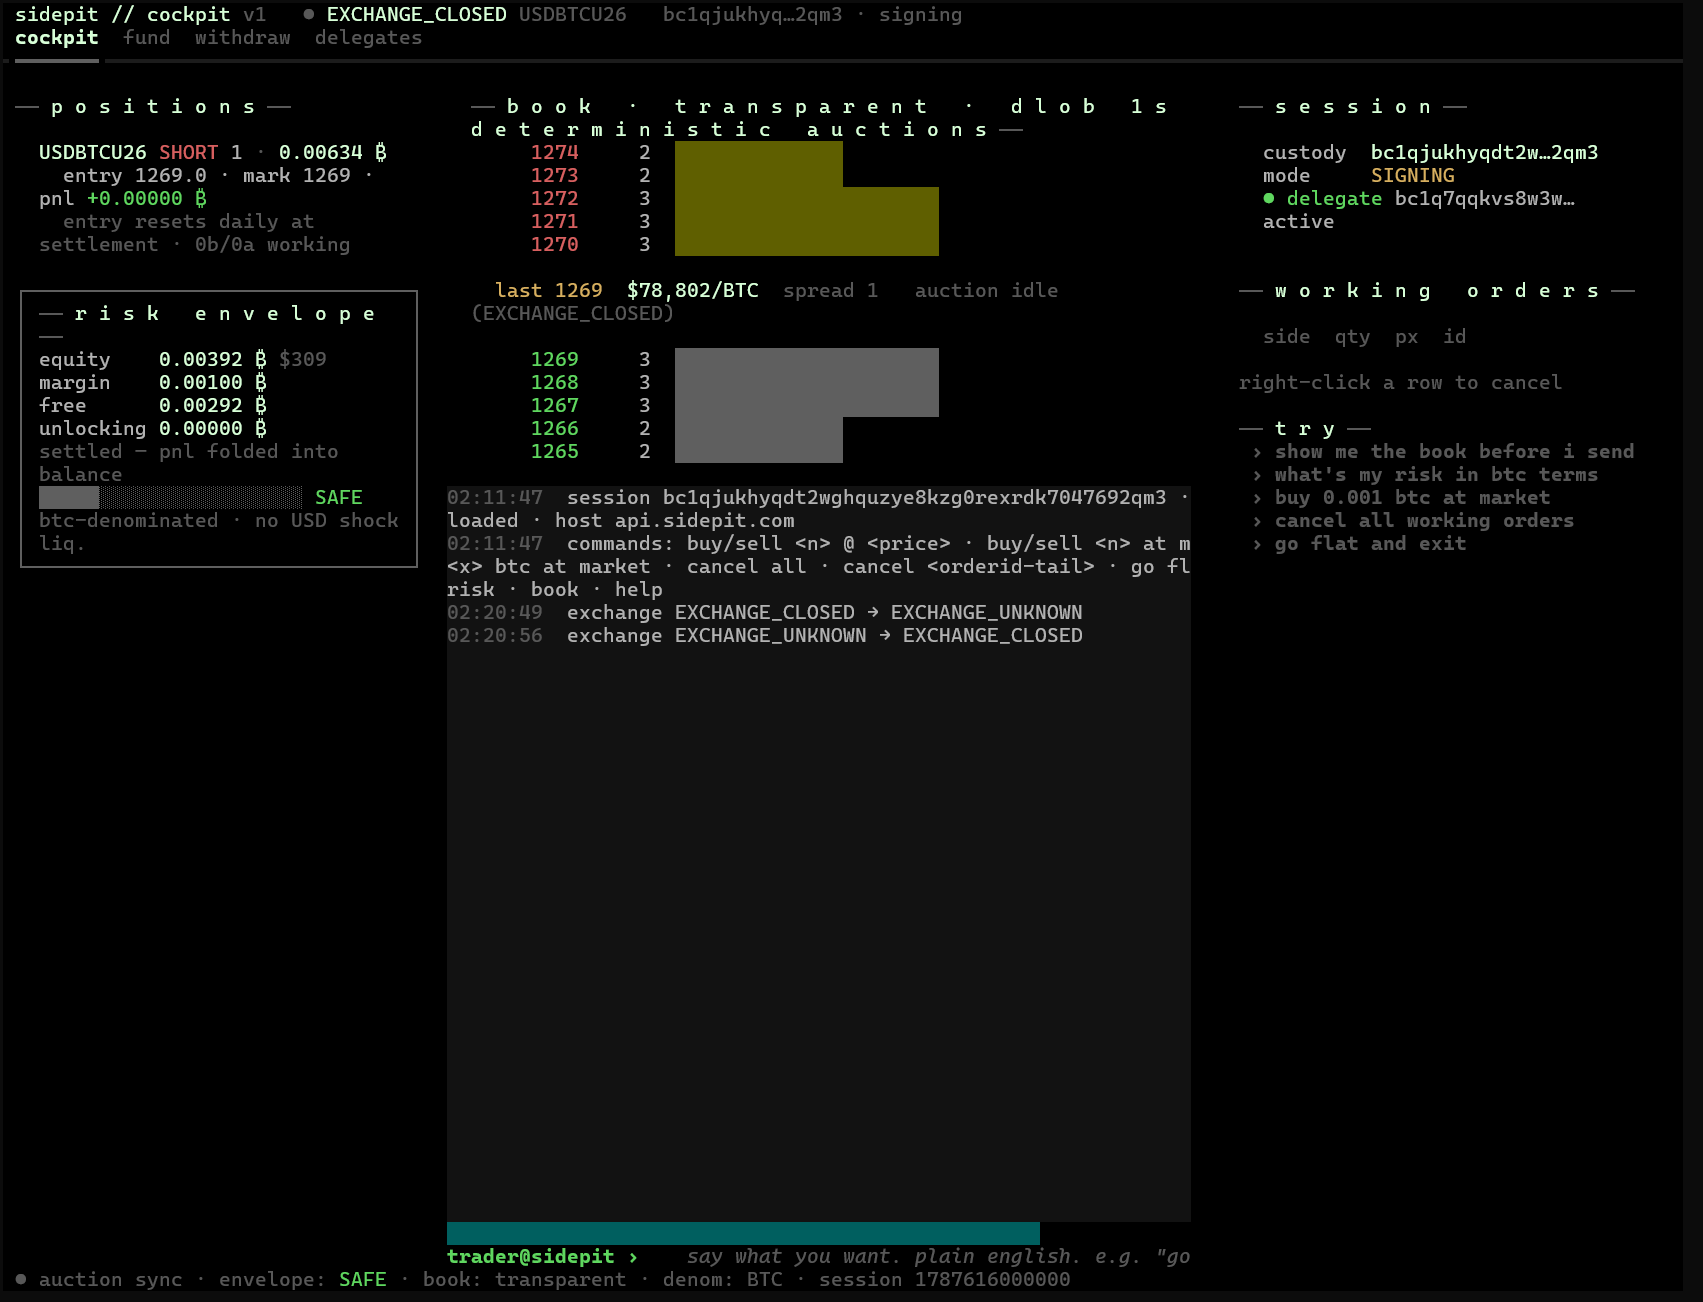
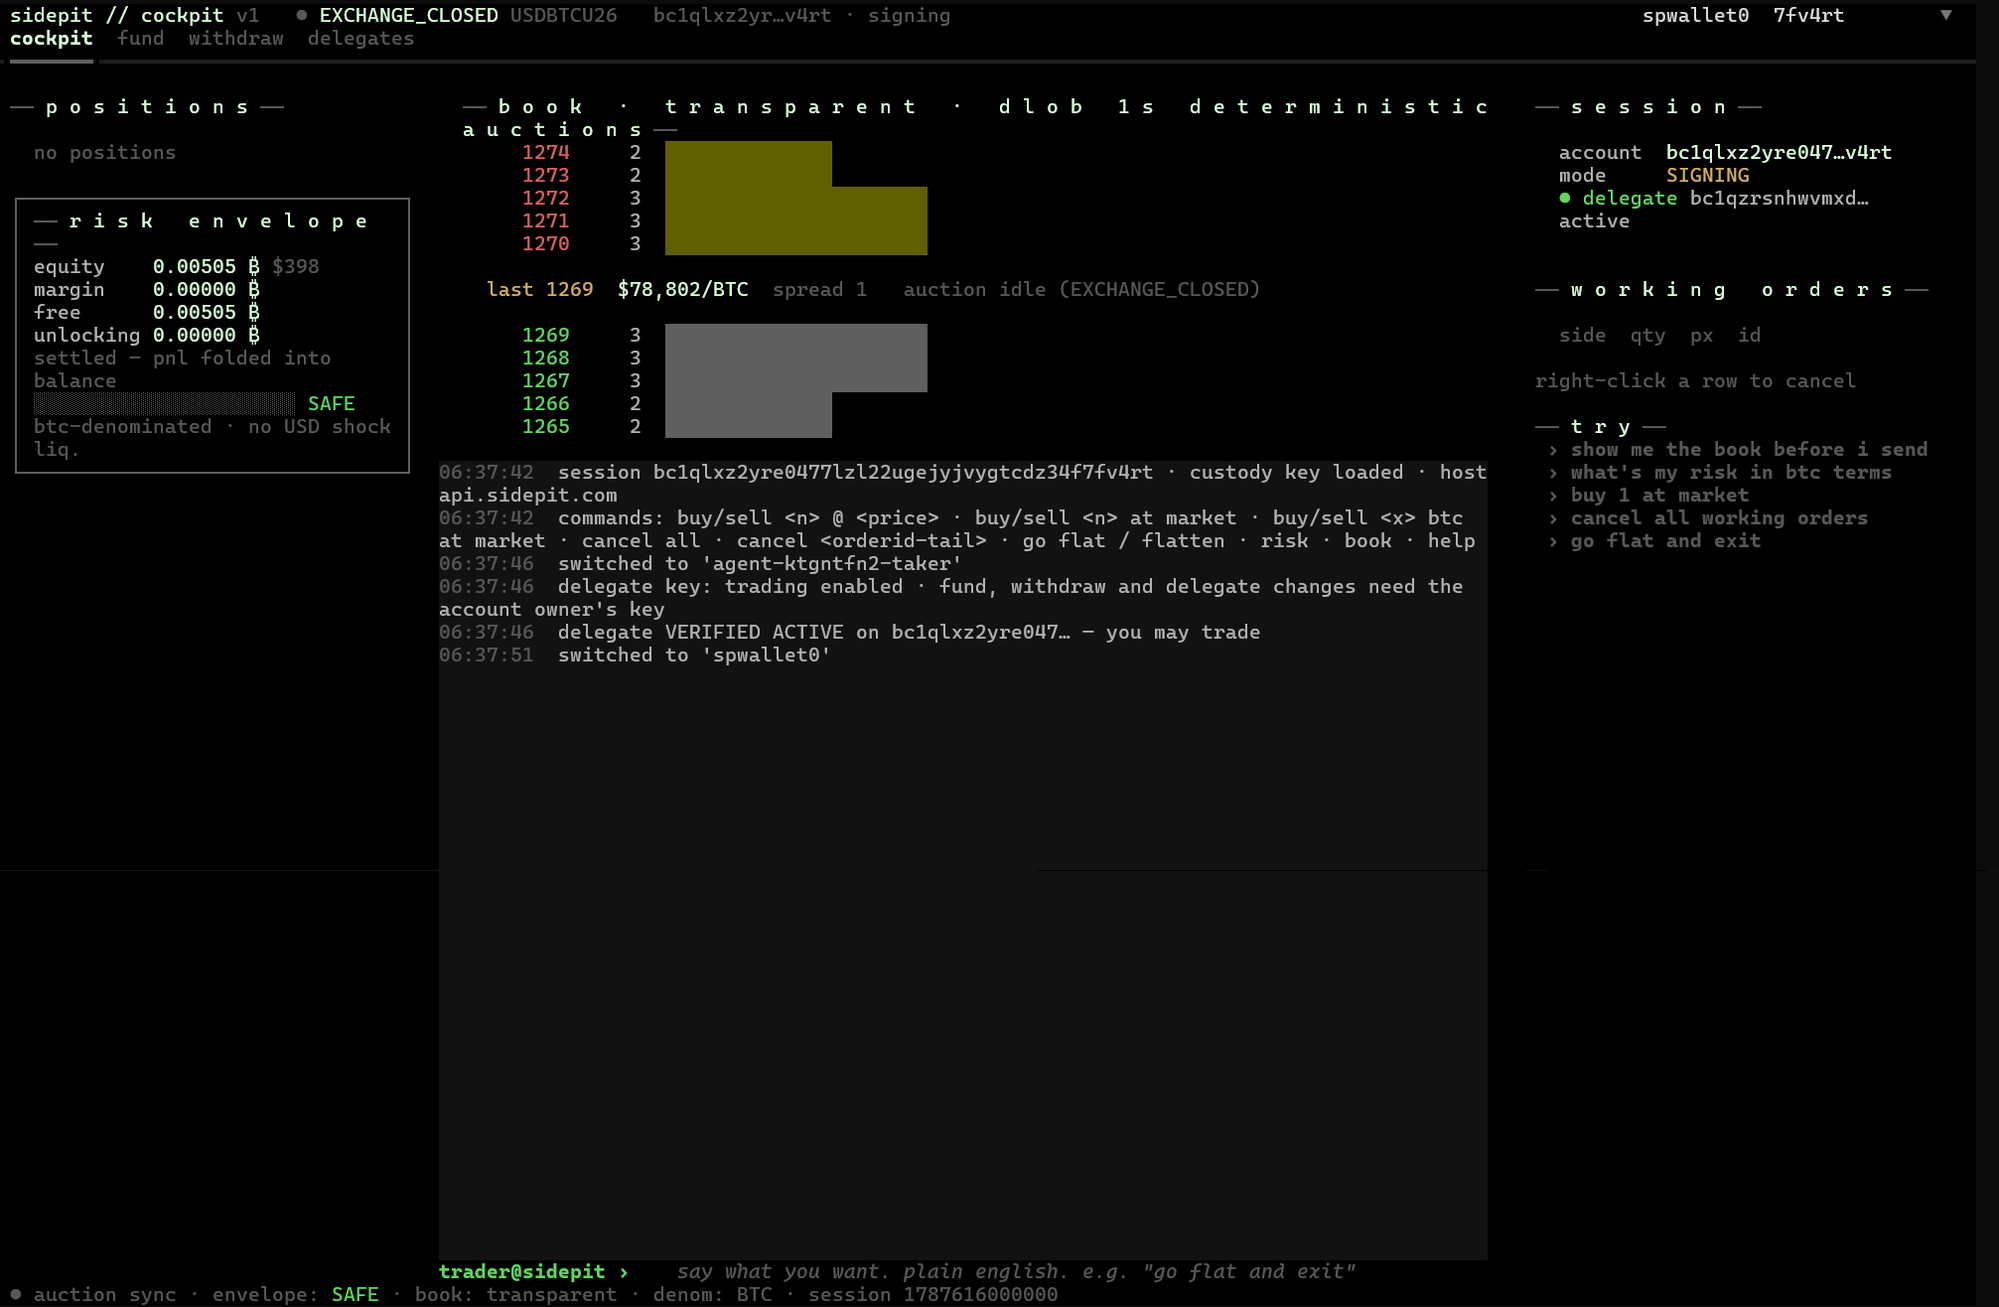
README: better cockpit shot (flat account, delegate/owner key split visible in the log)

diff --git a/users-cli/sidepit_tui/onboard.py b/users-cli/sidepit_tui/onboard.py
@@ -50,7 +50,7 @@ def load_or_onboard(app) -> None:
     or run onboarding."""
     row = keystore.active_identity()
     if row is not None:
-        app.start_bridge(row["sidepit_id"], row["wif"])
+        app.start_bridge(row["sidepit_id"], row["wif"], name=row["name"])
     else:
         app.push_screen(OnboardScreen())
 
@@ -85,7 +85,7 @@ class OnboardScreen(ModalScreen[None]):
                 mnemonic: str | None = None) -> None:
         keystore.save_identity(name, sidepit_id, wif, active=True,
                                mnemonic=mnemonic)
-        self.app.start_bridge(sidepit_id, wif)
+        self.app.start_bridge(sidepit_id, wif, name=name)
         self.dismiss(None)
 
     def _msg(self, text: str) -> None:

diff --git a/users-cli/sidepit_tui/__main__.py b/users-cli/sidepit_tui/__main__.py
@@ -15,6 +15,9 @@ import sys
 def _cli(argv: list[str]) -> int:
     from sidepit_trader import keystore, wallet
     cmd = argv[0]
+    if cmd in ("-h", "--help", "help"):
+        print(__doc__)
+        return 0
     if cmd == "import":
         import getpass
         from sidepit_trader import mnemonic

diff --git a/README.md b/README.md
@@ -20,7 +20,7 @@ it cannot withdraw Bitcoin or authorize another agent.
 <p align="center">
   <img src="images/cockpit.png" alt="sidepit // cockpit — the TUI: transparent book, risk envelope, plain-english prompt" width="860">
 </p>
-<p align="center"><i>The cockpit: transparent DLOB book, your risk envelope, and a prompt that takes plain english.</i></p>
+<p align="center"><i>The cockpit: transparent DLOB book, your risk envelope, and a prompt that takes plain english.<br>Note the log — <b>the delegate key trades; fund, withdraw and delegate changes need the owner's key.</b></i></p>
 
 <p align="center">
   <img src="images/doggie-wallet.png" alt="doggie // wallet — one number, two buttons" width="720">
